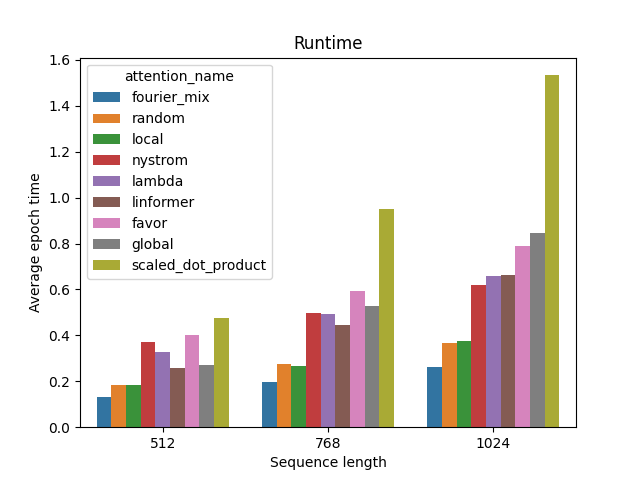
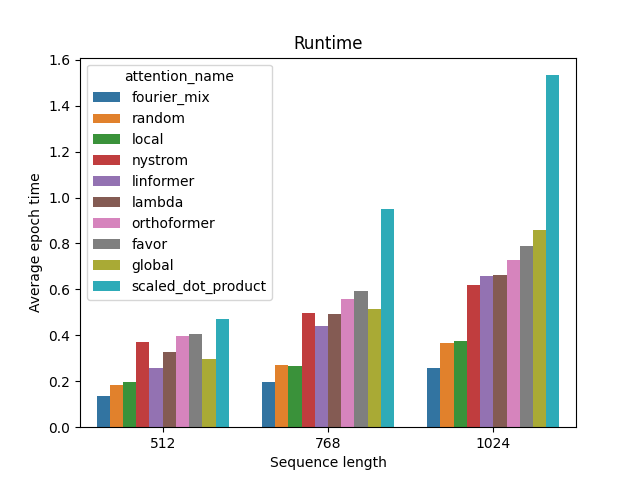
[feat] Orthoformer  attention (#164)
* Orthoformer  attention
Author: Mandela Patrick et al.

* only select landmarks amid the queries

diff --git a/xformers/components/attention/ortho.py b/xformers/components/attention/ortho.py
@@ -1,0 +1,295 @@
+import logging
+from dataclasses import dataclass
+from enum import Enum
+from typing import Optional
+
+import torch
+import torch.autograd.profiler as profiler
+import torch.nn as nn
+import torch.nn.functional as Fn
+
+from xformers.components.attention import Attention, AttentionConfig, register_attention
+from xformers.components.attention.core import (
+    scaled_dot_product_attention,
+    scaled_query_key_softmax,
+)
+
+
+class LandmarkSelection(str, Enum):
+    Orthogonal = "orthogonal"
+    KMeans = "kmeans"
+    KMeans_Spherical = "kmeans_spherical"
+    Random = "random"
+
+
+@dataclass
+class OrthoformerAttentionConfig(AttentionConfig):
+    """
+    num_landmarks           Number of landmarks to use for softmax approximation.
+    subsample_fraction      Percentage of q_samples matrix to sample per iteration
+    landmark_selection      Landmark selection strategy
+    """
+
+    num_landmarks: Optional[int]
+    subsample_fraction: Optional[float]
+    landmark_selection: Optional[LandmarkSelection]
+
+
+@register_attention("orthoformer", OrthoformerAttentionConfig)
+class OrthoFormerAttention(Attention):
+    def __init__(
+        self,
+        dropout: float,
+        num_landmarks: int = 32,
+        subsample_fraction: float = 1.0,
+        landmark_selection: LandmarkSelection = LandmarkSelection.Orthogonal,
+        *args,
+        **kwargs,
+    ):
+        """
+        Orthoformer attention mechanism, from
+        "
+        Keeping Your Eye on the Ball: Trajectory Attention in Video Transformers
+        Patrick, M., Campbell, D., Asano, Y., Misra, I., Metze, F., Feichtenhofer, C., Vedaldi, A., Henriques, J. (2021)
+        "
+        ArXiv: https://arxiv.org/abs/2106.05392
+        Reference repository: https://github.com/facebookresearch/Motionformer
+        """
+        super().__init__()
+
+        self.num_landmarks = num_landmarks
+        self.attn_drop = nn.Dropout(dropout)
+        self.subsample_fraction = subsample_fraction
+        self.landmark_selection = landmark_selection
+
+    def forward(
+        self,
+        q: torch.Tensor,
+        k: torch.Tensor,
+        v: torch.Tensor,
+        att_mask: Optional[torch.Tensor] = None,
+        *args,
+        **kwargs,
+    ):
+        N = k.shape[1]
+
+        if self.num_landmarks == N:
+            #  Default attention
+            x = scaled_dot_product_attention(q, k, v, att_mask)
+        else:
+            with torch.no_grad(), profiler.record_function("select landmarks"):
+                if self.landmark_selection == LandmarkSelection.Orthogonal:
+                    landmarks = self._compute_orthogonal_landmarks(q)
+                elif self.landmark_selection == LandmarkSelection.Random:
+                    half_L = self.num_landmarks // 2
+                    landmarks_q = q[:, torch.randint(q.size(1), (half_L,)), :]
+                    landmarks_k = k[:, torch.randint(k.size(1), (half_L,)), :]
+                    landmarks = torch.cat((landmarks_q, landmarks_k), dim=-2)
+                elif self.landmark_selection == LandmarkSelection.KMeans:
+                    landmarks = self._cluster_landmarks(q)
+                elif self.landmark_selection == LandmarkSelection.KMeans_Spherical:
+                    landmarks = self._cluster_landmarks(q, spherical=True)
+
+            if att_mask is not None:
+                logging.warning(
+                    "Orthoformer: attention mask passed alongside with using landmarks to reduce dimensions. \
+                    The two are typically not compatible"
+                )
+                # FIXME: Should we still accept a mask in that case ?
+                att_mask = None
+            kernel_1 = scaled_query_key_softmax(q, landmarks, att_mask)
+            kernel_2 = scaled_query_key_softmax(landmarks, k, att_mask)
+            x = torch.matmul(kernel_1, torch.matmul(kernel_2, v))
+        x = self.attn_drop(x)
+        return x
+
+    def _cluster_landmarks(
+        self,
+        q: torch.Tensor,
+        spherical: bool = False,
+        num_iters: int = 6,
+    ) -> torch.Tensor:
+        """
+        Construct set of landmarks by recursively selecting new landmarks
+        that are maximally orthogonal to the existing set.
+        Returns near orthogonal landmarks with shape (B, M, D).
+        """
+
+        if self.subsample_fraction < 1.0:
+            num_samples = max(
+                int(self.subsample_fraction * q.size(-2)), self.num_landmarks
+            )  # Need at least M/2 samples of queries and keys
+            q_samples = q[:, torch.randint(q.size(-2), (num_samples,)), :]  # (B, N, D)
+        else:
+            q_samples = q  # (B, N, D)
+
+        if spherical:
+            q_samples_normalized = Fn.normalize(
+                q_samples, p=2, dim=-1
+            )  # may need to change default eps to eps=1e-8 for mixed precision compatibility
+            landmarks = self._kmeans_spherical(
+                q_samples_normalized, self.num_landmarks, num_iters
+            )
+        else:
+            landmarks = self._kmeans(q_samples, self.num_landmarks, num_iters)
+        return landmarks  # (B, M, D)
+
+    def _kmeans(self, x: torch.Tensor, K: int, num_iters: int = 10):
+        """
+        Arguments:
+            x: (B, N, D)
+            K: number of clusters
+            num_iters: the number of kmeans updates
+        """
+
+        B, N, D = x.size()
+        assert K <= N
+        c = x[
+            :, torch.randperm(N, device=x.device)[:K], :
+        ].clone()  # initialisation for the centroids
+
+        with profiler.record_function("kmeans"):
+            x_i = x.view(B, N, 1, D)
+            c_j = c.view(B, 1, K, D)
+            counts = c.new_zeros(B, K)
+            ones = x.new_ones((B, N))
+
+            for _ in range(num_iters):
+                # E step: assign points to the nearest cluster
+                D_ij = ((x_i - c_j) ** 2).sum(-1)  # (B, N, K) squared distances
+                cl = D_ij.argmin(
+                    dim=-1, keepdim=True
+                ).long()  # (B, N, 1) index of point to nearest cluster
+
+                # M step: update the centroids
+                c.zero_()
+                c.scatter_add_(-2, cl.repeat(1, 1, D), x)  # sum of points per cluster
+                counts.fill_(1e-6)  # avoid div0
+                counts.scatter_add_(
+                    -1, cl.squeeze(-1), ones
+                )  # number of points per cluster
+                c.divide_(counts.unsqueeze(-1))  # compute the average
+
+        return c
+
+    def _kmeans_spherical(self, x: torch.Tensor, K: int, num_iters=10):
+        """
+        Arguments:
+            x: (B, N, D)
+        """
+        B, N, D = x.size()
+        assert K <= N
+
+        # initialisation for the centroids
+        c = x[:, torch.randperm(N, device=x.device)[:K], :].clone()
+
+        with profiler.record_function("kmeans_spherical"):
+            counts = c.new_zeros(B, K)
+            ones = x.new_ones((B, N))
+
+            for _ in range(num_iters):
+                # E step: assign points to the nearest cluster
+                D_ij = torch.matmul(
+                    x, c.transpose(-2, -1)
+                )  # (B, N, K) cosine similarity
+                cl = D_ij.argmax(
+                    dim=-1, keepdim=True
+                ).long()  # (B, N, 1) index of point to nearest cluster
+
+                # M step: update the centroids
+                c.zero_()
+                c.scatter_add_(-2, cl.repeat(1, 1, D), x)  # sum of points per cluster
+                counts.fill_(1e-6)  # avoid div0
+                counts.scatter_add_(
+                    -1, cl.squeeze(-1), ones
+                )  # number of points per cluster
+                c.divide_(counts.unsqueeze(-1))  # compute the average
+                c = Fn.normalize(c, p=2, dim=-1)  # renormalise
+        return c
+
+    def _compute_orthogonal_landmarks(self, q: torch.Tensor) -> torch.Tensor:
+        """
+        Construct set of landmarks by recursively selecting new landmarks
+        that are maximally orthogonal to the existing set.
+        Returns near orthogonal landmarks with shape (B, M, D).
+        """
+
+        if self.subsample_fraction < 1.0:
+            # Need at least M samples of queries
+            num_samples = max(
+                int(self.subsample_fraction * q.size(-2)), self.num_landmarks
+            )
+            q_samples = q[
+                :, torch.randint(q.size(-2), (num_samples,), device=q.device), :
+            ]
+        else:
+            # (B, N, D)
+            q_samples = q
+
+        # may need to change default eps to eps=1e-8 for mixed precision compatibility
+        q_samples_normalized = Fn.normalize(q_samples, p=2, dim=-1)
+        B, N, D = q_samples_normalized.shape
+
+        selected_mask = torch.zeros((B, N, 1), device=q_samples_normalized.device)
+        landmark_mask = torch.ones(
+            (B, 1, 1), dtype=selected_mask.dtype, device=q_samples_normalized.device
+        )
+
+        #  Get initial random landmark
+        random_idx = torch.randint(
+            q_samples_normalized.size(-2), (B, 1, 1), device=q_samples_normalized.device
+        )
+        selected_mask.scatter_(-2, random_idx, landmark_mask)
+
+        #  Selected landmarks
+        selected_landmarks = torch.empty(
+            (B, self.num_landmarks, D),
+            device=q_samples_normalized.device,
+            dtype=q_samples_normalized.dtype,
+        )
+        selected_landmarks[:, 0, :] = q_samples_normalized[
+            torch.arange(q_samples_normalized.size(0)), random_idx.view(-1), :
+        ].view(B, D)
+
+        # Store computed cosine similarities
+        cos_sims = torch.empty(
+            (B, N, self.num_landmarks),
+            device=q_samples_normalized.device,
+            dtype=q_samples_normalized.dtype,
+        )
+
+        for M in range(1, self.num_landmarks):
+            with profiler.record_function("find new landmark"):
+                #  Calculate absolute cosine similarity between selected and unselected landmarks
+                # (B, N, D) * (B, D) -> (B, N)
+                cos_sims[:, :, M - 1] = torch.einsum(
+                    "b n d, b d -> b n",
+                    q_samples_normalized,
+                    selected_landmarks[:, M - 1, :],
+                ).abs()
+
+                # (B, N, M) cosine similarities of current set of landmarks wrt all queries and keys
+                cos_sim_set = cos_sims[:, :, :M]
+
+                #  Get orthogonal landmark: landmark with smallest absolute cosine similarity:
+                # set cosine similarity for already selected landmarks to > 1
+                cos_sim_set.view(-1, M)[selected_mask.flatten().bool(), :] = 10
+
+                # (B,) - want max for non
+                selected_landmark_idx = cos_sim_set.amax(-1).argmin(-1)
+
+                #  Add most orthogonal landmark to selected landmarks:
+                selected_landmarks[:, M, :] = q_samples_normalized[
+                    torch.arange(q_samples_normalized.size(0)), selected_landmark_idx, :
+                ].view(B, D)
+
+                #  Removed selected indices from non-selected mask:
+                selected_mask.scatter_(
+                    -2, selected_landmark_idx.unsqueeze(-1).unsqueeze(-1), landmark_mask
+                )
+
+        # (B, M, D)
+        landmarks = torch.masked_select(q_samples, selected_mask.bool()).reshape(
+            B, -1, D
+        )
+        return landmarks  #  (B, M, D)

diff --git a/xformers/components/attention/__init__.py b/xformers/components/attention/__init__.py
@@ -84,6 +84,7 @@ from .global_tokens import GlobalAttention  # noqa
 from .linformer import LinformerAttention  # noqa
 from .local import LocalAttention  # noqa
 from .nystrom import NystromAttention  # noqa
+from .ortho import OrthoFormerAttention  # noqa
 from .random import RandomAttention  # noqa
 from .scaled_dot_product import ScaledDotProduct  # noqa
 
@@ -93,6 +94,7 @@ __all__ = [
     "LinformerAttention",
     "NystromAttention",
     "RandomAttention",
+    "OrthoFormerAttention",
     "GlobalAttention",
     "FavorAttention",
     "Attention",

diff --git a/README.md b/README.md
@@ -188,17 +188,19 @@ Some examples, generated with `python3 benchmarks/benchmark_encoder.py --activat
 ### LRA
 
 The code for this benchmark has been adapted from [this repository](https://github.com/mlpen/Nystromformer/tree/main/LRA). [A dedicated README is available here](benchmarks/LRA/README.md)
-Some results:
 
-| Attention                   | ListOps  | Text      | Retrieval | Image     | Pathfinder | *Avg*  | *Est. Gflops* | *Peak mem (mb)* |
-| --------------------------- | -------- | --------- | --------- | --------- | ---------- | ------ | ------------- | --------------- |
-| _Chance_                    | _10_     | _50_      | _50_      | _10_      | _50_       | _34_   | _0_           | _0_             |
-| Standard                    | **37.5** | 62.66     | 79.24     | 38.69     | **70.37**  | 57.69  | 1.21          | 2291            |
-| Nystromformer-128           | 36.29    | **63.24** | 78.18     | **42.86** | 67.49      | 57.61  | 0.62          | 383             |
-| Favor-256 (redraw)          | 19.56    | 62.76     | **81.1**  | 36.09     | 67.23      | 53.35  | 0.49          | 445             |
-| FourierMix                  | 36.29    | 60.72     | 76.41     | 36.53     | 54.07      | 52.8   | **0.17**      | **87**          |
-| Linformer-seq/4 (no redraw) | 36.69    | 57.39     | 76.41     | 35.57     | 65.12      | 54.2   | 0.67          | 719             |
-| Lambda                      | 19.76    | 62.47     | 79.11     | 35.04     | 49.74      | 49.224 | x             | 1023            |
+__Some results:__
+
+| Attention                   | ListOps  | Text      | Retrieval | Image     | Pathfinder | *Avg*     | *Est. Gflops* | *Peak mem (mb)* |
+| --------------------------- | -------- | --------- | --------- | --------- | ---------- | --------- | ------------- | --------------- |
+| _Chance_                    | _10_     | _50_      | _50_      | _10_      | _50_       | _34_      | _0_           | _0_             |
+| Standard                    | **37.5** | 62.66     | 79.24     | 38.69     | **70.37**  | **57.69** | 1.21          | 2291            |
+| Nystromformer-128           | 36.29    | 63.24     | 78.18     | **42.86** | 67.49      | 57.61     | 0.62          | 383             |
+| Favor-256 (redraw)          | 19.56    | 62.76     | **81.1**  | 36.09     | 67.23      | 53.35     | 0.49          | 445             |
+| FourierMix                  | 36.29    | 60.72     | 76.41     | 36.53     | 54.07      | 52.8      | **0.17**      | **87**          |
+| Linformer-seq/4 (no redraw) | 36.69    | 57.39     | 76.41     | 35.57     | 65.12      | 54.2      | 0.67          | 719             |
+| Lambda                      | 19.76    | 62.47     | 79.11     | 35.04     | 49.74      | 49.224    | x             | 1023            |
+| Orthoformer-32              | 27.42    | **63.96** | 77.96     | 34.5      | 67.11      | 54.19     | 0.187         | 155             |
 
 - Contrary to the initial LRA proposal, __we use the same model architecture for all tasks (2 layers).__
 - The training schedule for ListOps has been lengthened, while keeping it the fastest of all tasks, which reduces the seed dependence in the final accuracy figure.
